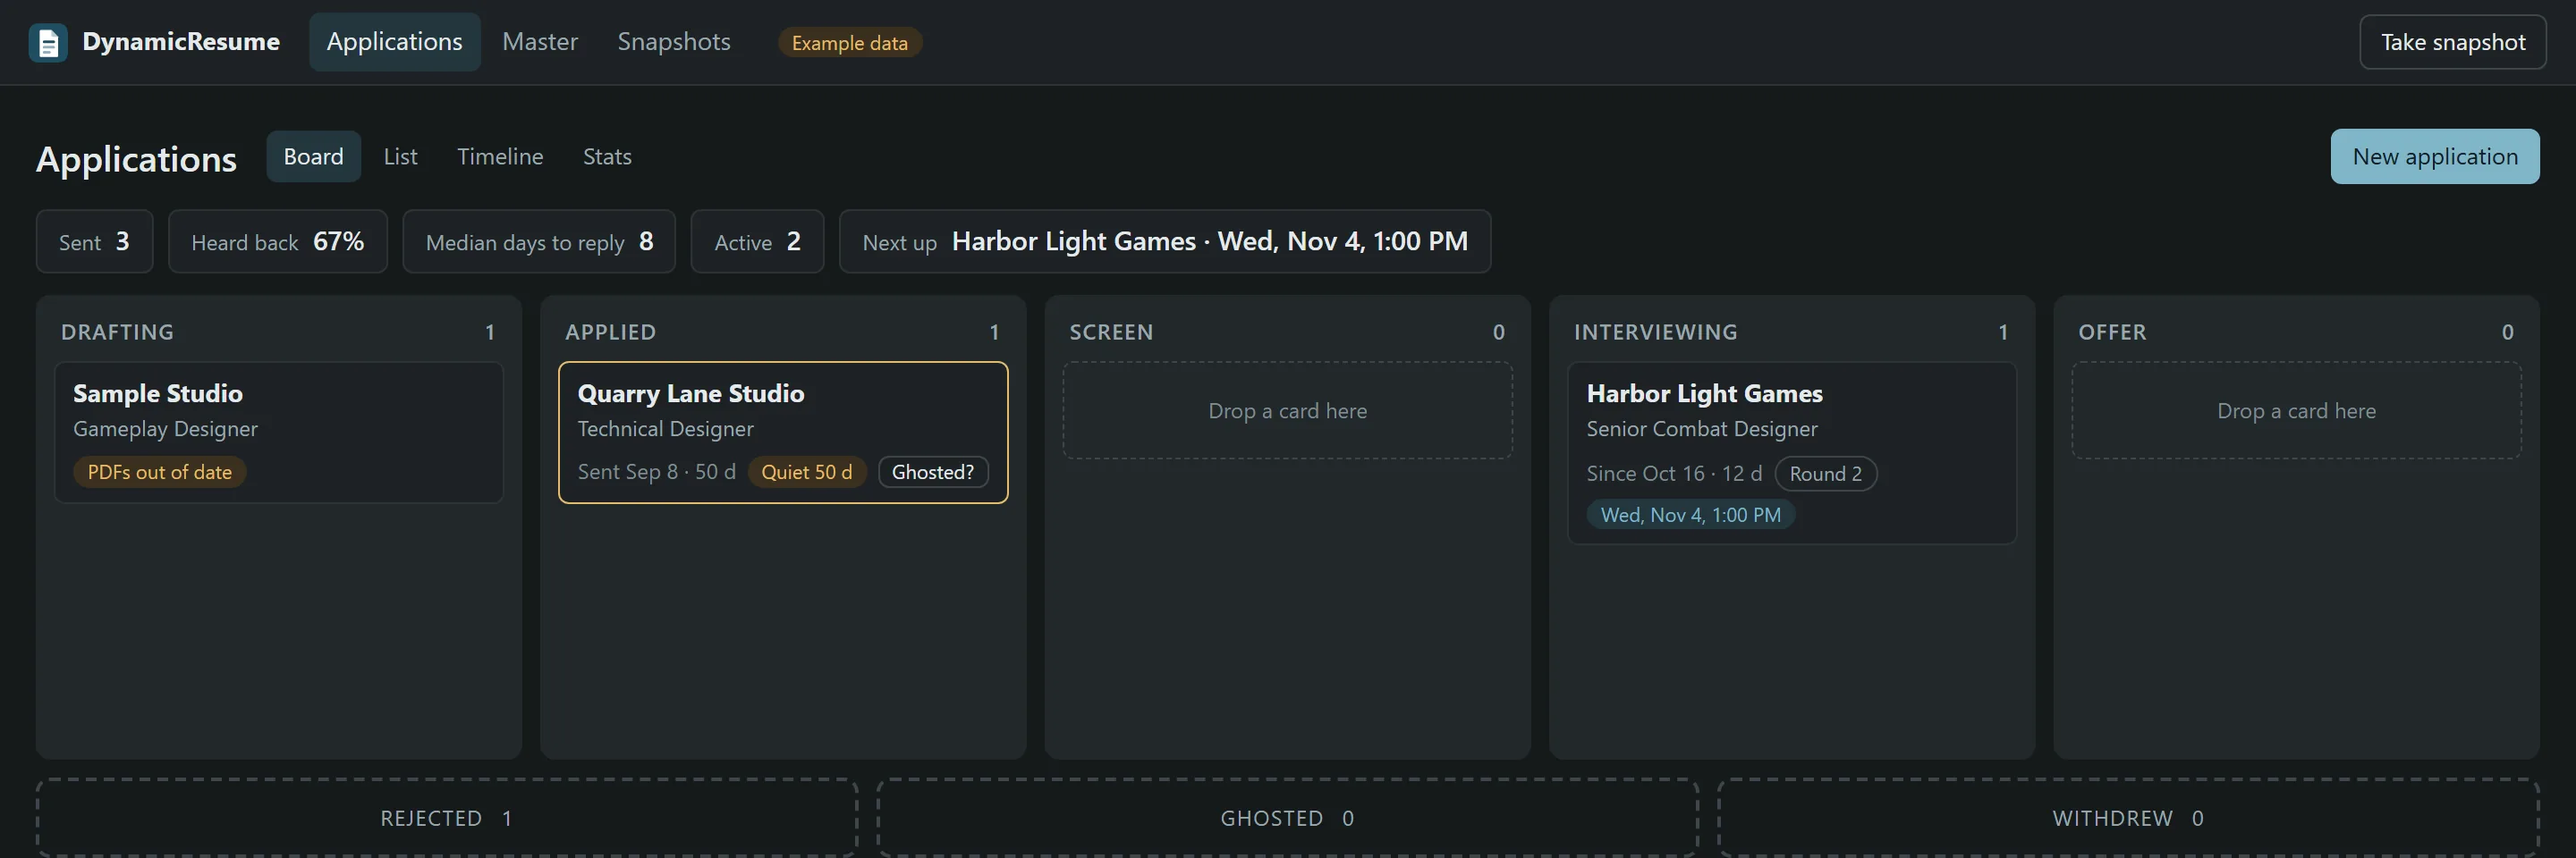
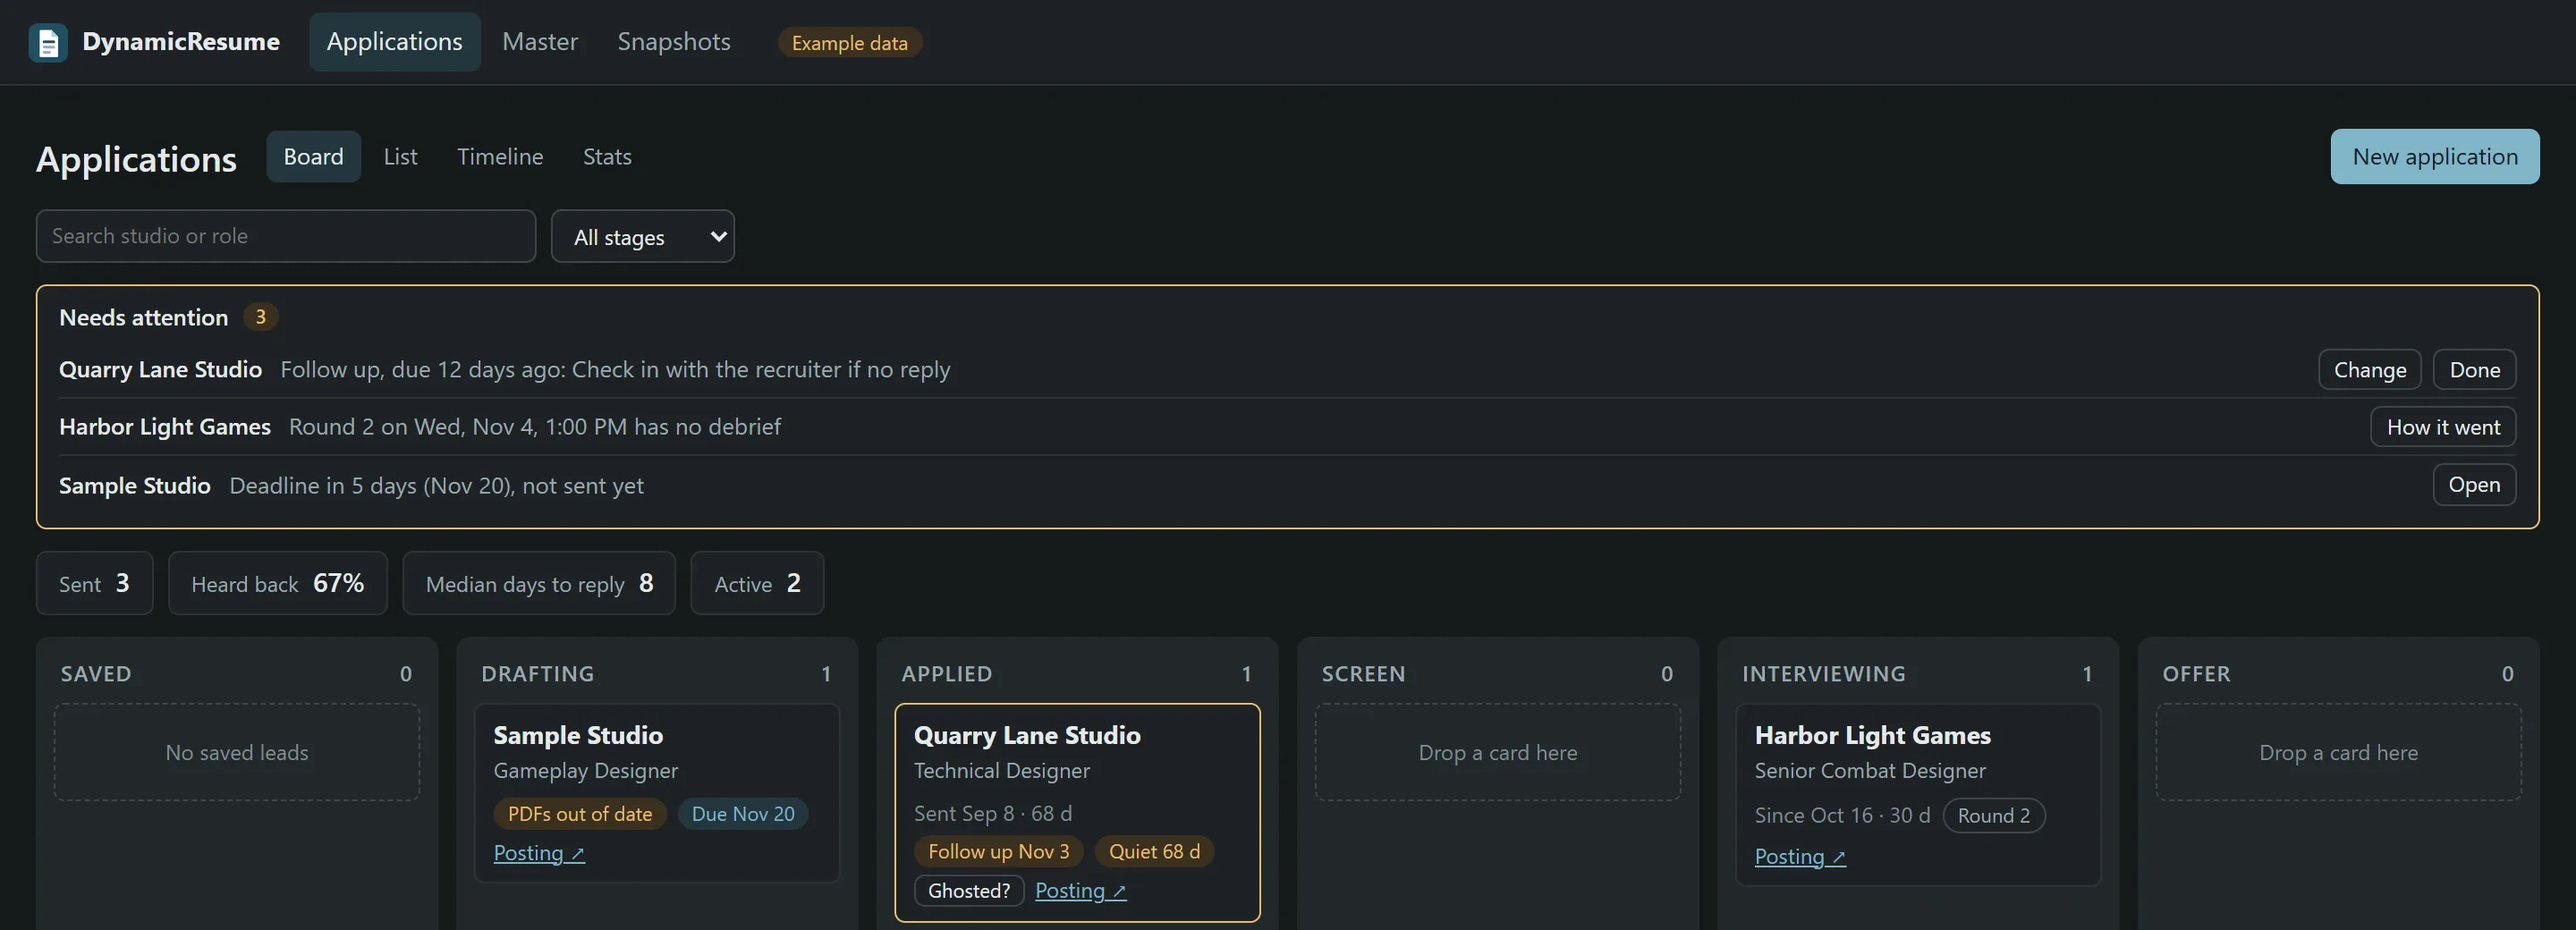
Refresh the project page for v1.1 (#61)
## Summary

Updates the GitHub Pages project page with what shipped in v1.1, without
making it much longer. The page grows by about 170px on desktop, and the
structure stays the same: hero demo, three-feature tour, feature grid,
under the hood, get started.

- **Screenshots** are retaken from the demo with Playwright at 1440x900
@2x. The old ones showed Mark submitted, Take snapshot, the Games
section and bullet ids, none of which look like that anymore.
  - Resume tab: now shows Fit to page.
  - Listing tab
  - Board: now with the Needs attention strip.
- Prep sheet: replaces the timeline image. It's a real Claude run on the
demo data, cropped to the first two questions, and it sits layered over
the board.
- The README's `editor.png` and `listing.png` are retaken the same way.
- **Tour copy:**
  - The release pill reads v1.1.0.
- Feature 1 adds Greenhouse, Lever and Ashby link import, plus Write a
bullet for closing gaps.
  - Feature 2 adds Fit to page.
- Feature 3 becomes "Send it, then see it through" and covers the Send
dialog, Needs attention and prep sheets.
- **Feature grid:** "Short versions and variants" becomes "The whole
master in a form". Writing lint merges into the cover letters card, and
that frees a slot for "Follow-ups and calendars".
- **Under the hood:** the line count goes from 6,000 to 9,000. The
template note says Fit to page tests each cut with a real render, and
the agent note says drafts, gap bullets and prep sheets all use the same
[…]

diff --git a/docs/index.html b/docs/index.html
@@ -4,7 +4,7 @@
 <meta charset="utf-8">
 <meta name="viewport" content="width=device-width, initial-scale=1">
 <title>DynamicResume</title>
-<meta name="description" content="Keep your whole career in one YAML file and build a tailored one-page resume and cover letter for every job, with a local editor, Claude drafts, Typst layout and application tracking.">
+<meta name="description" content="Keep your whole career in one YAML file and build a tailored one-page resume and cover letter for every job, with a local editor, Claude drafts, Typst layout, application tracking and interview prep.">
 <meta name="theme-color" content="#15191b">
 <meta property="og:title" content="DynamicResume">
 <meta property="og:description" content="One master file of career data. A tailored, ATS-friendly one-page resume and cover letter for every job.">
@@ -42,7 +42,7 @@
 <section class="hero" id="top">
   <div class="wrap">
     <div class="hero-copy">
-      <a class="release" href="https://github.com/JacobPoteet/DynamicResume/releases/latest">v1.1.0 adds application tracking</a>
+      <a class="release" href="https://github.com/JacobPoteet/DynamicResume/releases/latest">v1.1.0: fit to page, a send flow and interview prep</a>
       <h1>Write your career once.<br>Fit it to every job on one page.</h1>
       <p class="lede">DynamicResume keeps every role, bullet and skill in one master file. For each listing it picks the bullets that match, lays them out with Typst, and tells you exactly how full the page is. It runs on your machine, and your data never leaves it.</p>
       <div class="ctas">
@@ -87,8 +87,8 @@
     <article class="feat">
       <div class="feat-copy">
         <h3>Claude drafts it. You decide.</h3>
-        <p>Paste a job listing and choose Create and draft with Claude. Claude Code runs headlessly with read-only tools, reads your master and the listing, then picks and orders bullets, writes a headline and a cover letter, and breaks the listing into requirements.</p>
-        <p>It also says what your master can't back up. Those gaps get a topic, and the Gaps view ranks them across every application, so you know which bullet to write next.</p>
+        <p>Paste a job listing, or import one from a Greenhouse, Lever or Ashby link, and choose Create and draft with Claude. Claude Code runs headlessly with read-only tools, reads your master and the listing, then picks and orders bullets, writes a headline and a cover letter, and breaks the listing into requirements.</p>
+        <p>It also says what your master can't back up, and the Gaps view ranks those gaps across every application. Write a bullet asks what you actually did and drafts one from your answers alone, so a gap closes without anything invented.</p>
       </div>
       <figure class="shot"><img src="img/listing.webp" width="2880" height="1800" loading="lazy" alt="The Listing tab: Claude's notes on what it led with, two gaps the master cannot back up, studio notes, and the editable requirement list, beside a live resume preview."></figure>
     </article>
@@ -97,29 +97,29 @@
       <div class="feat-copy">
         <h3>Edit against the listing, with a live page</h3>
         <p>Every requirement is a chip that turns green when a selected bullet backs it up. Tick bullets on and off, drag them into order, or reword one for this job only. The preview rebuilds as you go.</p>
-        <p>The fill meter shows how much room is left. Each bullet shows its line count, and a bullet whose last line holds only a word or two gets flagged, because trimming it saves a whole line. Nothing ever shrinks the font.</p>
+        <p>The fill meter shows how much room is left, and a bullet whose last line holds a word or two gets flagged. Over a page? Fit to page swaps in short wordings, then cuts the bullets the listing needs least, and gives back whatever it didn't need. Nothing ever shrinks the font.</p>
       </div>
-      <figure class="shot"><img src="img/resume.webp" width="2880" height="1800" loading="lazy" alt="The Resume tab: nine of ten listing requirements covered, bullets with ids, priorities, tags and line counts, and a live one-page preview that is 76 percent full."></figure>
+      <figure class="shot"><img src="img/resume.webp" width="2880" height="1800" loading="lazy" alt="The Resume tab: nine of ten listing requirements covered, bullets with tags and line counts, a Fit to page button, and a live one-page preview that is 76 percent full."></figure>
     </article>
 
     <article class="feat">
       <div class="feat-copy">
-        <h3>Track it after you hit send</h3>
-        <p>Marking an application sent freezes the exact PDFs you sent, along with the files that made them, so when a studio calls back you can open the resume they actually have.</p>
-        <p>Then drag the card along the board as you hear back: screen, interview rounds with format and interviewers, offer, rejected or ghosted. Timeline and Stats show reply rates, days to a first reply, and what's coming up.</p>
+        <h3>Send it, then see it through</h3>
+        <p>The Send dialog copies your letter and each role's bullets as plain text for application forms, then freezes the exact PDFs you sent, so when a studio calls back you can open the resume they actually have.</p>
+        <p>Drag the card along the board as you hear back. Needs attention lists follow-ups that are due and interviews waiting on a debrief. Before an interview, a prep sheet lists likely questions with the bullets that answer them, what to say about the gaps, and a thank-you email to copy.</p>
       </div>
       <div class="shot-stack">
-        <figure class="shot"><img src="img/board.webp" width="2880" height="960" loading="lazy" alt="The application board with Drafting, Applied, Screen, Interviewing and Offer columns, a quiet card offering Ghosted, and a scheduled second-round interview."></figure>
-        <figure class="shot"><img src="img/timeline.webp" width="2880" height="744" loading="lazy" alt="The timeline: three applications drawn across September to November, with stage changes, scheduled interviews and a rejection."></figure>
+        <figure class="shot"><img src="img/board.webp" width="2880" height="1040" loading="lazy" alt="The application board: a Needs attention strip with a due follow-up, a missing debrief and a deadline, reply stats, and cards in Drafting, Applied and Interviewing."></figure>
+        <figure class="shot shot-inset"><img src="img/prep.webp" width="1360" height="870" loading="lazy" alt="A prep sheet for a second-round interview: likely questions, each with talking points and the ids of the bullets that answer it."></figure>
       </div>
     </article>
 
     <dl class="more">
       <div><dt>Impact check</dt><dd>Every master save rebuilds each application in the background and tells you which ones changed length or went past one page.</dd></div>
-      <div><dt>Short versions and variants</dt><dd>A bullet can carry a tighter wording, or an alternate version for listings that ask for something specific. The build refuses a bullet and its variant together.</dd></div>
+      <div><dt>The whole master in a form</dt><dd>Edit every role, bullet, short wording and variant without touching YAML, with an outline, search, tag filters and em dash warnings as you type.</dd></div>
       <div><dt>ATS-friendly output</dt><dd>One column of real text and standard headings, with the company repeated on every role so autofill never reads a team name as your employer.</dd></div>
-      <div><dt>Matching cover letters</dt><dd>Plain paragraphs, laid out with the resume's header, colors and margins, and drawing on your notes about the studio.</dd></div>
-      <div><dt>Writing lint</dt><dd>Builds flag em dashes and filler such as "leverage", "spearhead" and "passionate about".</dd></div>
+      <div><dt>Matching cover letters</dt><dd>Laid out with the resume's header and margins, drawing on your studio notes, and linted for filler such as "leverage" and "spearhead".</dd></div>
+      <div><dt>Follow-ups and calendars</dt><dd>Set a reminder on any open application, and download any scheduled interview as a calendar file. Timeline and Stats show reply rates and days to a first reply.</dd></div>
       <div><dt>Nothing gets lost</dt><dd>Comments in your YAML survive every save, each master save keeps the previous version, and snapshots zip everything before a redraft or delete.</dd></div>
     </dl>
   </div>
@@ -129,7 +129,7 @@
 <section class="hood" id="hood">
   <div class="wrap">
     <h2 class="sec">Under the hood</h2>
-    <p class="sec-lede">About 6,000 lines of Python, Typst and plain JavaScript. No framework, no bundler, no database: YAML files you can read and edit, a standard-library server, and a template that measures its own layout.</p>
+    <p class="sec-lede">About 9,000 lines of Python, Typst and plain JavaScript. No framework, no bundler, no database: YAML files you can read and edit, a standard-library server, and a template that measures its own layout.</p>
 
     <figure class="pipe" aria-labelledby="pipe-cap">
       <svg viewBox="0 0 960 300" role="img" aria-labelledby="pipe-title pipe-desc">
@@ -159,7 +159,7 @@
     <div class="notes">
       <article class="note">
         <h3>A template that measures itself</h3>
-        <p>Typst lays out the page, and while it does, each bullet records how many lines it took and how full its last line is. <code>build.py</code> queries those labels instead of guessing from character counts, so "about 16 lines free" means 16 lines.</p>
+        <p>Typst lays out the page, and while it does, each bullet records how many lines it took and how full its last line is. <code>build.py</code> queries those labels instead of guessing from character counts, so "about 16 lines free" means 16 lines, and Fit to page can test each cut with a real render.</p>
 <pre><code><span class="c">// templates/timeline.typ</span>
 <span class="k">let</span> n = lines(b.text)
 ...
@@ -169,7 +169,7 @@
 
       <article class="note">
         <h3>An agent with read-only hands</h3>
-        <p>Drafts run Claude Code headlessly in the data folder, so the project's own rules apply. It can read, glob and grep, and nothing else. It answers with one JSON object, and every bullet id in it is checked against the master before a file is written.</p>
+        <p>Drafts, gap bullets and prep sheets all run Claude Code headlessly in the data folder, so the project's own rules apply. It can read, glob and grep, and nothing else. It answers with one JSON object, and every bullet id in it is checked against the master before a file is written.</p>
 <pre><code><span class="c"># studio/draft.py</span>
 READ_ONLY = [<span class="s">"Read"</span>, <span class="s">"Glob"</span>, <span class="s">"Grep"</span>]
 cmd = [exe, <span class="s">"-p"</span>, <span class="s">"--output-format"</span>, <span class="s">"stream-json"</span>,

diff --git a/docs/assets/site.css b/docs/assets/site.css
@@ -182,6 +182,7 @@ h1 {
 .feat p { color: var(--muted); margin: 0 0 14px; }
 .shot { margin: 0; border-radius: 10px; overflow: hidden; border: 1px solid var(--line-strong); box-shadow: 0 24px 60px -24px rgba(0, 0, 0, 0.7); }
 .shot-stack { display: grid; gap: 16px; }
+.shot-inset { width: 72%; justify-self: end; margin-top: -72px; box-shadow: 0 18px 40px rgb(0 0 0 / 0.45); }
 
 .more { display: grid; grid-template-columns: repeat(3, minmax(0, 1fr)); gap: 0 40px; margin: 0; }
 .more div { border-top: 1px solid var(--line); padding: 20px 0 28px; }
@@ -271,6 +272,7 @@ pre .o { color: var(--muted); }
   .tailor { margin-top: 44px; padding: 14px; border-radius: 12px; }
   .listings button { padding: 9px 11px; font-size: 14px; }
   .more { grid-template-columns: 1fr; }
+  .shot-inset { width: 100%; margin-top: 0; }
   .tour, .hood, .start { padding: 64px 0; }
   .tour .sec { margin-bottom: 36px; }
   .copy { display: none; }
